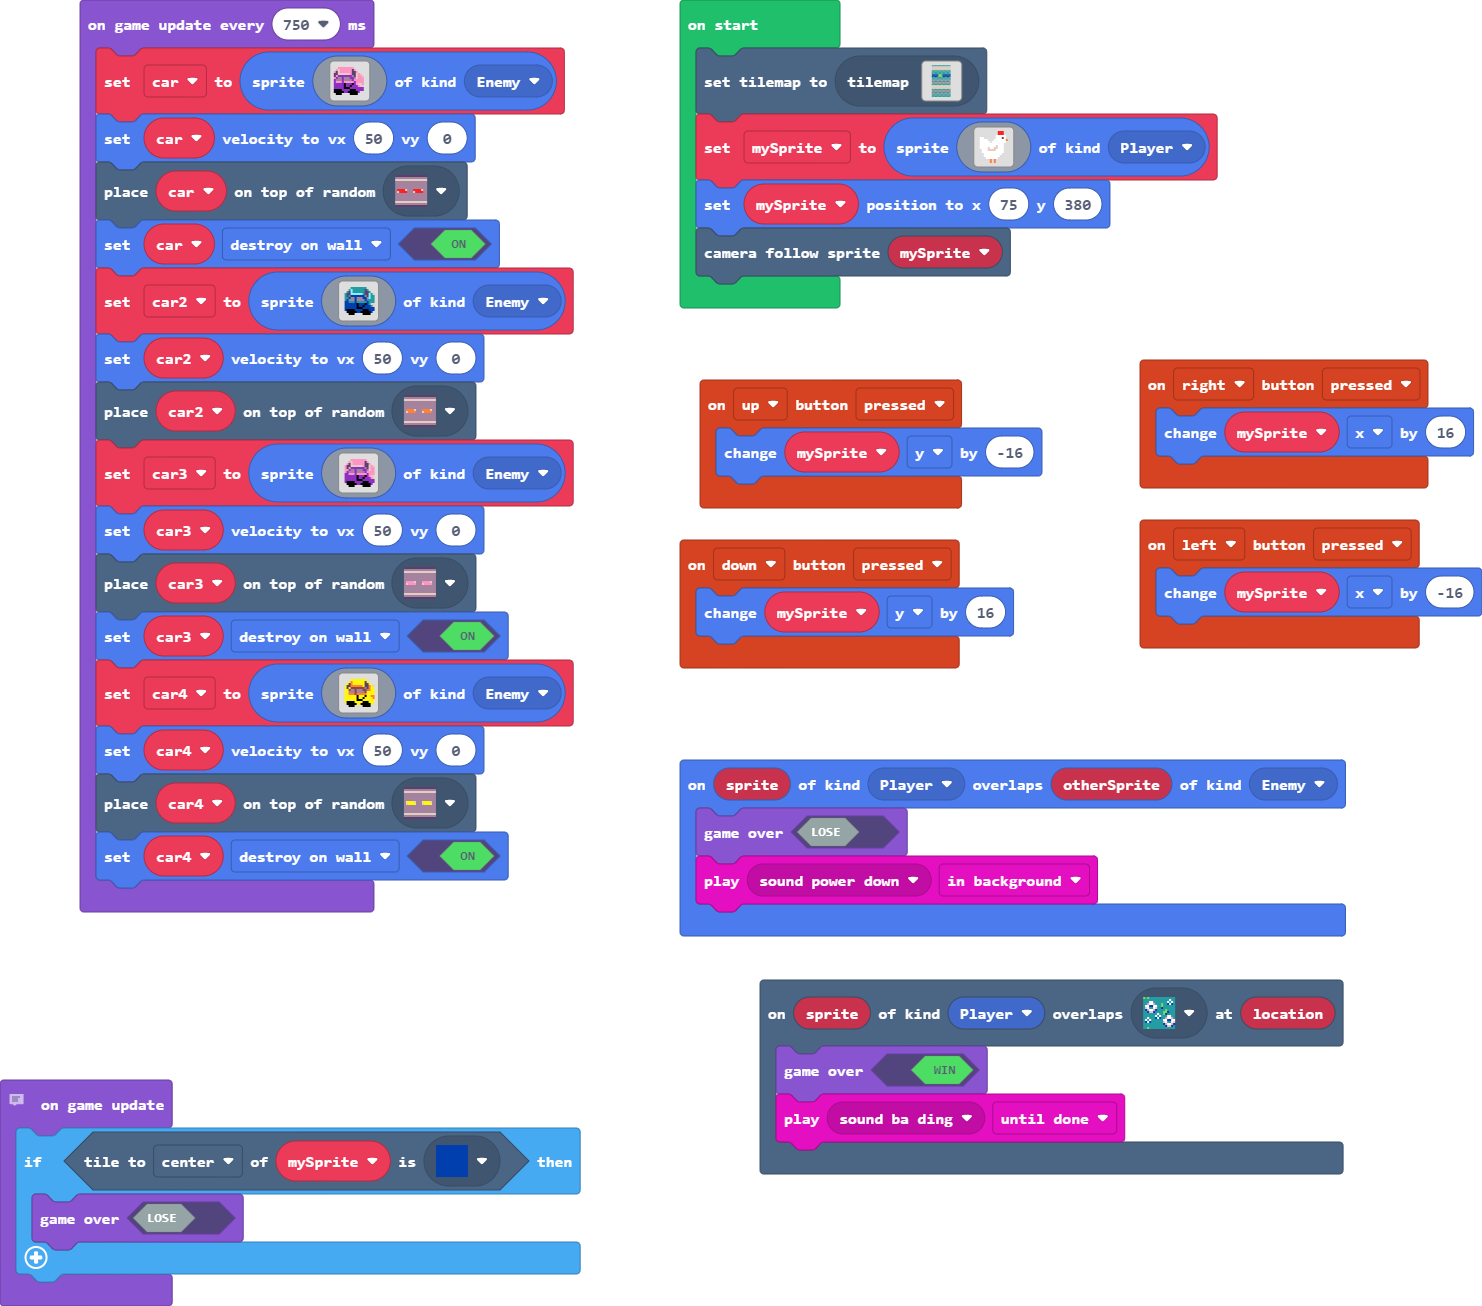
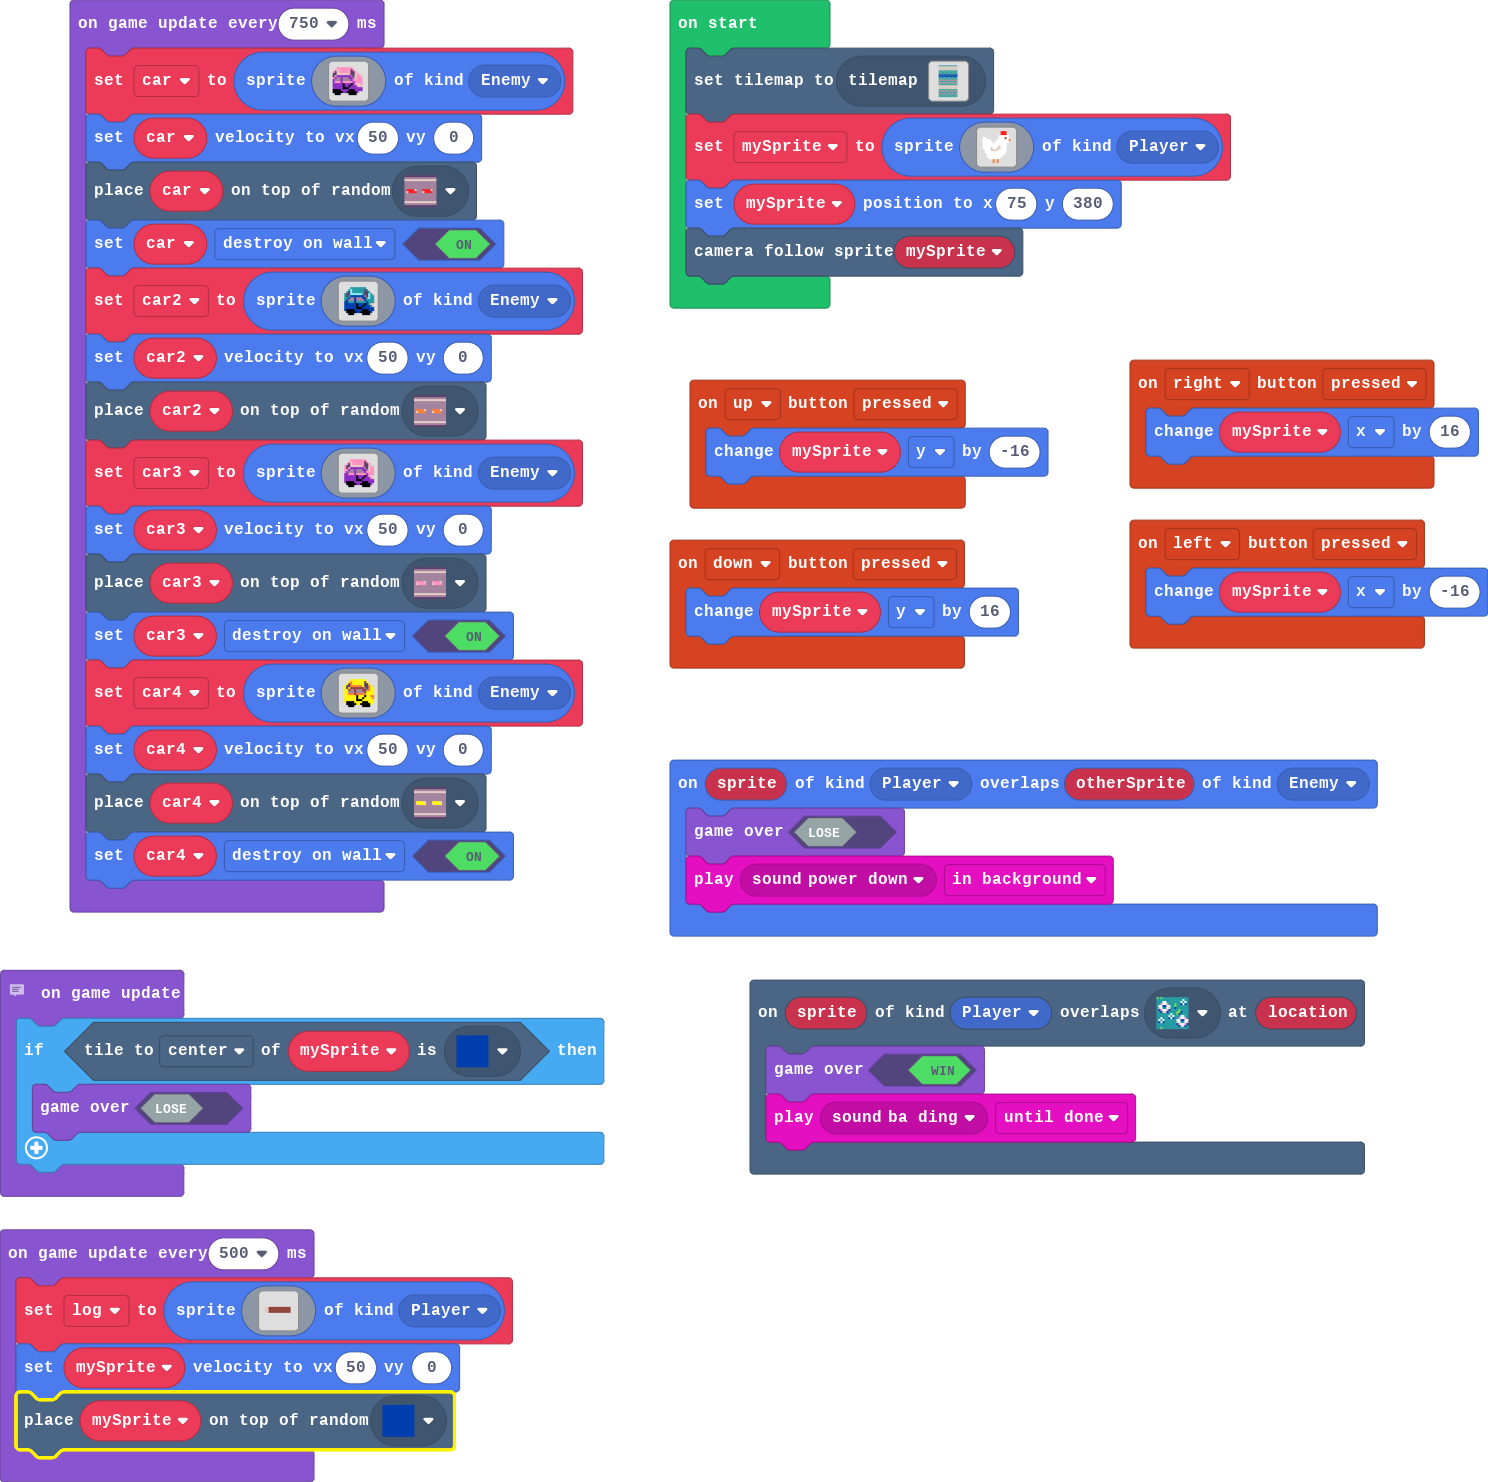
Update main.blocks, main.ts

diff --git a/main.ts b/main.ts
@@ -21,6 +21,7 @@ sprites.onOverlap(SpriteKind.Player, SpriteKind.Enemy, function (sprite, otherSp
     game.gameOver(false)
     music.play(music.melodyPlayable(music.powerDown), music.PlaybackMode.InBackground)
 })
+let log: Sprite = null
 let car4: Sprite = null
 let car3: Sprite = null
 let car2: Sprite = null
@@ -137,4 +138,26 @@ game.onUpdateInterval(750, function () {
     car4.setVelocity(50, 0)
     tiles.placeOnRandomTile(car4, assets.tile`myTile3`)
     car4.setFlag(SpriteFlag.DestroyOnWall, true)
+})
+game.onUpdateInterval(500, function () {
+    log = sprites.create(img`
+        . . . . . . . . . . . . . . . . 
+        . . . . . . . . . . . . . . . . 
+        . . . . . . . . . . . . . . . . 
+        . . . . . . . . . . . . . . . . 
+        . . . . . . . . . . . . . . . . 
+        . . . . . . . . . . . . . . . . 
+        . d d e e e e e e e e e e e . . 
+        . d d e e e e e e e e e e e . . 
+        . d d e e e e e e e e e e e . . 
+        . . . . . . . . . . . . . . . . 
+        . . . . . . . . . . . . . . . . 
+        . . . . . . . . . . . . . . . . 
+        . . . . . . . . . . . . . . . . 
+        . . . . . . . . . . . . . . . . 
+        . . . . . . . . . . . . . . . . 
+        . . . . . . . . . . . . . . . . 
+        `, SpriteKind.Player)
+    mySprite.setVelocity(50, 0)
+    tiles.placeOnRandomTile(mySprite, assets.tile`myTile10`)
 })
